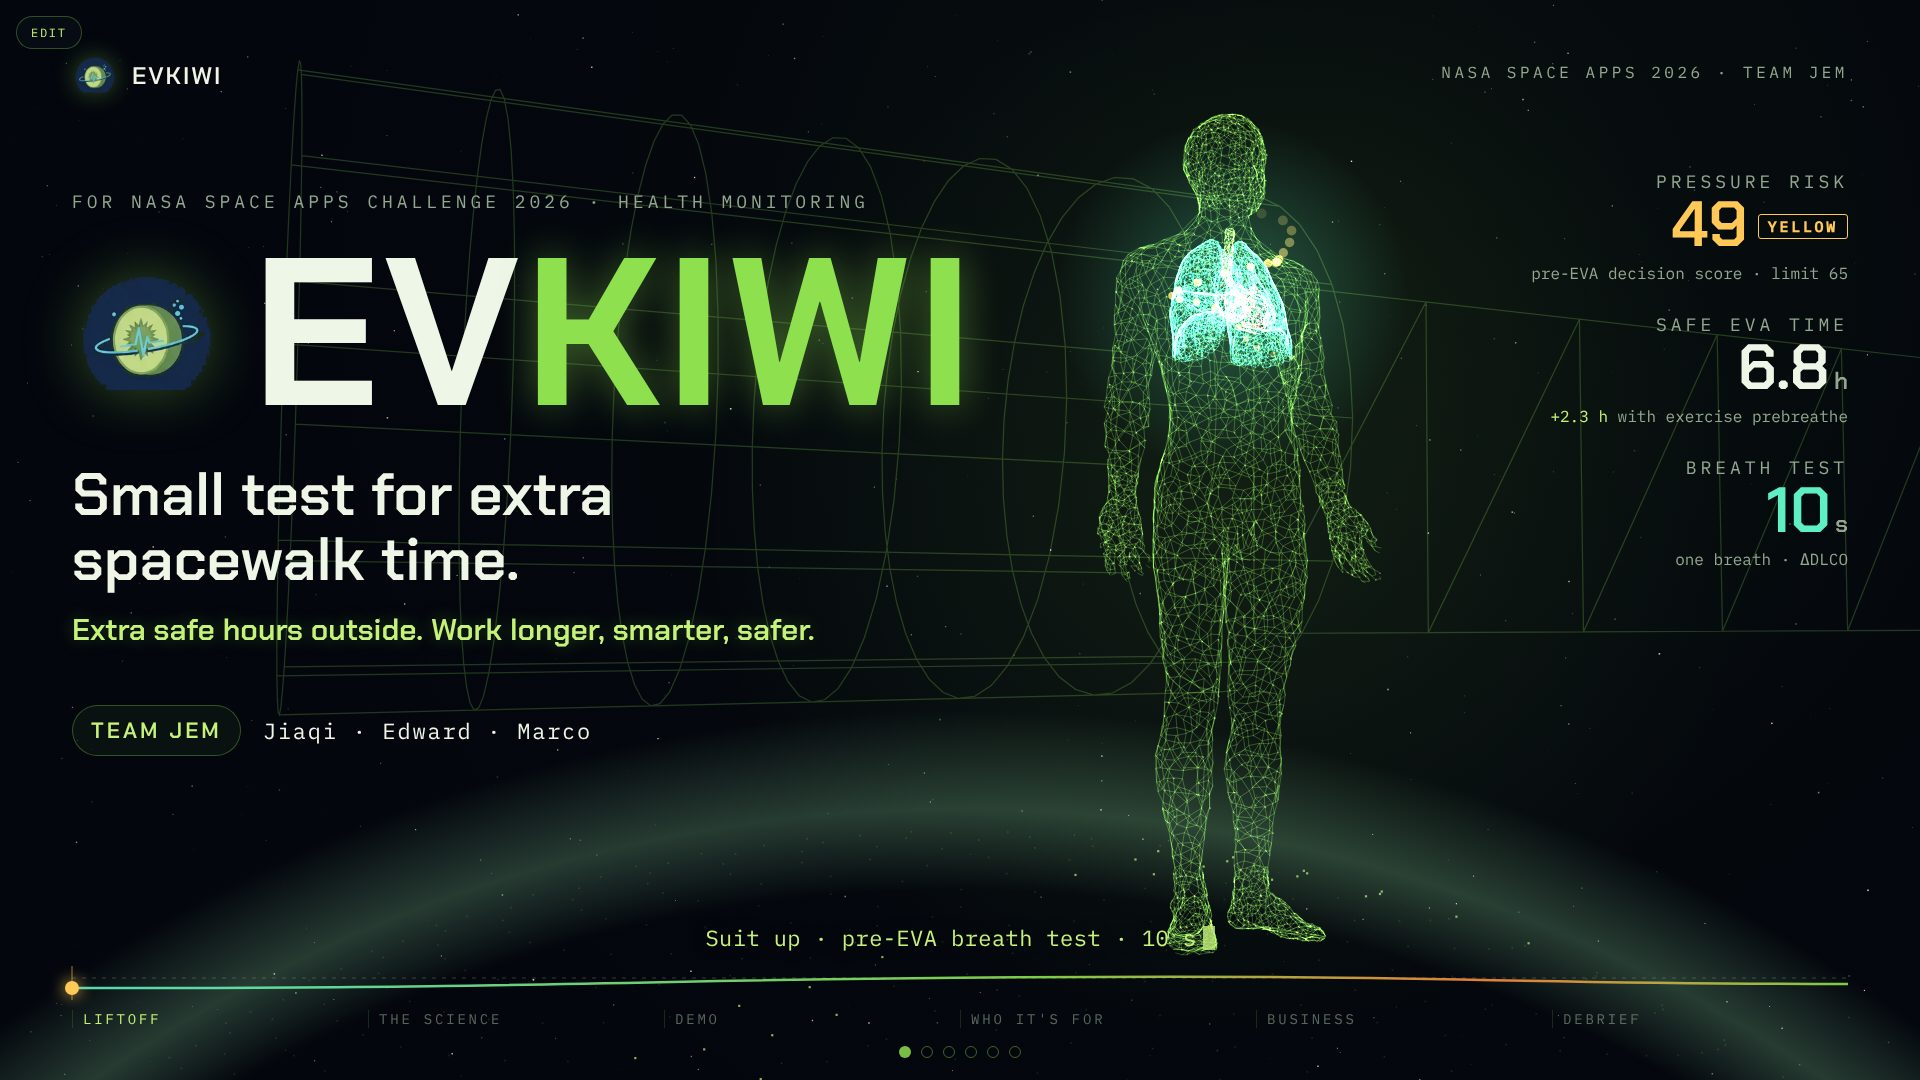
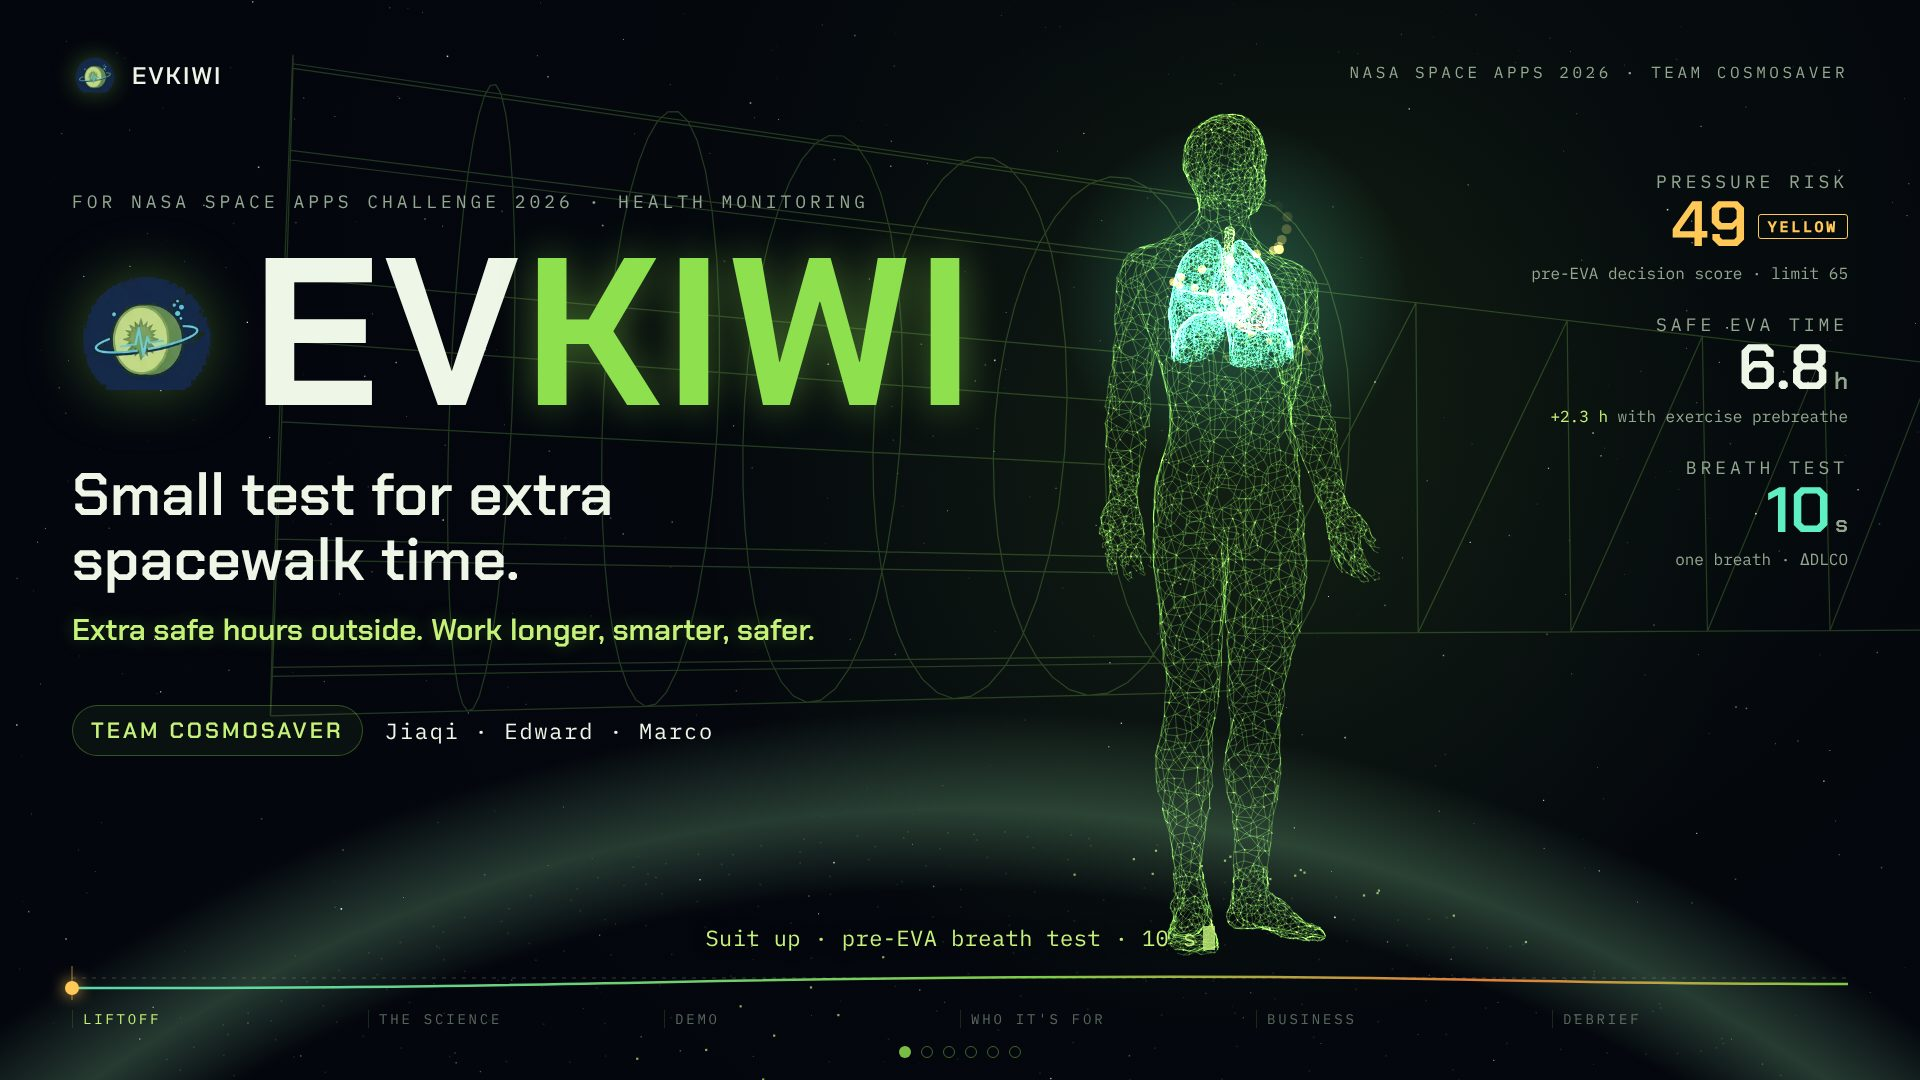
Pitch deck: team name Cosmosaver

diff --git a/pitch/EVKIWI-pitch-deck.html b/pitch/EVKIWI-pitch-deck.html
@@ -350,7 +350,7 @@ body.editing [contenteditable="true"]{outline:1px dashed rgba(142,224,79,.45);ou
   <!-- ===== CHROME: lockup, event tag, mission timeline, coach line ===== -->
   <div class="chrome">
[1 lines of base64/hex data omitted]
-    <div class="tagr">NASA Space Apps 2026 · Team JEM</div>
+    <div class="tagr">NASA Space Apps 2026 · Team Cosmosaver</div>
     <div class="coach" id="coach"></div>
     <div class="tl">
       <svg viewBox="0 0 1776 30" preserveAspectRatio="none">
@@ -374,7 +374,7 @@ body.editing [contenteditable="true"]{outline:1px dashed rgba(142,224,79,.45);ou
       </div>
       <div class="tagline reveal" style="--d:.8">Small test for extra<br>spacewalk time.</div>
       <div class="value reveal" style="--d:1">Extra safe hours outside. Work longer, smarter, safer.</div>
-      <div class="team reveal" style="--d:1.2"><span class="badge">TEAM JEM</span><span class="names">Jiaqi · Edward · Marco</span></div>
+      <div class="team reveal" style="--d:1.2"><span class="badge">TEAM COSMOSAVER</span><span class="names">Jiaqi · Edward · Marco</span></div>
     </div>
     <div class="hud">
       <div class="reveal" style="--d:1.3"><div class="lbl">Pressure risk</div><div class="num amber"><span data-count="49">49</span><span class="lvl">YELLOW</span></div><div class="sub">pre-EVA decision score · limit 65</div></div>
@@ -494,7 +494,7 @@ body.editing [contenteditable="true"]{outline:1px dashed rgba(142,224,79,.45);ou
     <div class="s6l reveal" style="right:150px;text-align:right;--d:.85"><div class="lbl">Safe EVA time</div><div class="num kb">+2.3<small style="font-size:30px;color:var(--dim)"> h</small></div><div class="sub2">sample recommendation</div></div>
     <div class="foot">
       <div class="thanks reveal" style="--d:1.1">Thank you. Questions?</div>
-      <div class="crew reveal" style="--d:1.3"><b>TEAM JEM</b> · Jiaqi · Edward · Marco</div>
+      <div class="crew reveal" style="--d:1.3"><b>TEAM COSMOSAVER</b> · Jiaqi · Edward · Marco</div>
     </div>
   </section>
 

diff --git a/pitch/README.md b/pitch/README.md
@@ -1,6 +1,6 @@
 # EVKIWI pitch deck
 
-NASA Space Apps Challenge 2026 · Team JEM (Jiaqi · Edward · Marco)
+NASA Space Apps Challenge 2026 · Team Cosmosaver (Jiaqi · Edward · Marco)
 
 - `EVKIWI-pitch-deck.html`: 6 animated slides in one self-contained file. Open it in a browser. Arrow keys, space or click to move, F for fullscreen, E to edit text.
 - `EVKIWI-pitch-deck.pptx`: the same 6 slides with editable text, a native chart and speaker notes.
